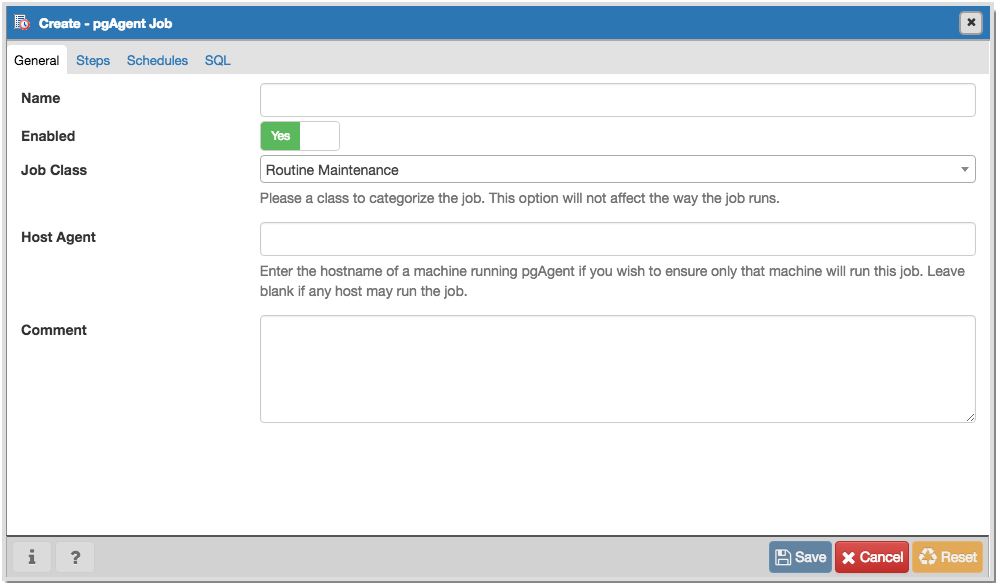
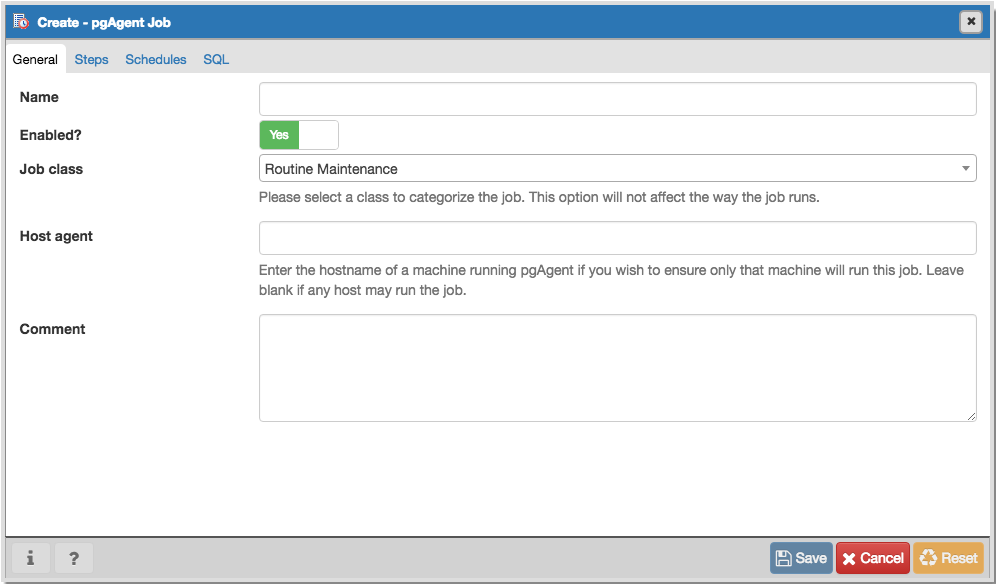
pgAgent docs. Fixes #1824

diff --git a/web/pgadmin/browser/server_groups/servers/pgagent/schedules/templates/pga_schedule/js/pga_schedule.js b/web/pgadmin/browser/server_groups/servers/pgagent/schedules/templates/pga_schedule/js/pga_schedule.js
@@ -183,6 +183,7 @@ function($, _, S, pgAdmin, moment, pgBrowser, Alertify, Backform) {
     pgBrowser.Nodes['pga_schedule'] = pgBrowser.Node.extend({
       parent_type: 'pga_job',
       type: 'pga_schedule',
+      dialogHelp: '{{ url_for('help.static', filename='pgagent_jobs.html') }}',
       hasSQL: false,
       hasDepends: false,
       hasStatistics: false,

diff --git a/web/pgadmin/browser/server_groups/servers/pgagent/steps/templates/pga_jobstep/js/pga_jobstep.js b/web/pgadmin/browser/server_groups/servers/pgagent/steps/templates/pga_jobstep/js/pga_jobstep.js
@@ -22,6 +22,7 @@ function($, _, S, pgAdmin, pgBrowser, Alertify, Backform) {
     pgBrowser.Nodes['pga_jobstep'] = pgBrowser.Node.extend({
       parent_type: 'pga_job',
       type: 'pga_jobstep',
+      dialogHelp: '{{ url_for('help.static', filename='pgagent_jobs.html') }}',
       hasSQL: true,
       hasDepends: false,
       hasStatistics: true,

diff --git a/web/pgadmin/browser/server_groups/servers/pgagent/templates/pga_job/js/pga_job.js b/web/pgadmin/browser/server_groups/servers/pgagent/templates/pga_job/js/pga_job.js
@@ -21,6 +21,7 @@ function($, _, S, pgAdmin, pgBrowser, Alertify) {
     pgBrowser.Nodes['pga_job'] = pgBrowser.Node.extend({
       parent_type: 'server',
       type: 'pga_job',
+      dialogHelp: '{{ url_for('help.static', filename='pgagent_jobs.html') }}',
       hasSQL: true,
       hasDepends: false,
       hasStatistics: true,

diff --git a/docs/en_US/pgagent_jobs.rst b/docs/en_US/pgagent_jobs.rst
@@ -1,13 +1,13 @@
 .. _pgagent_jobs:
 
 
-*********************
-`pgAgent Jobs`:index:
-*********************
+*******************************
+`Creating a pgAgent Job`:index:
+*******************************
 
 pgAgent is a scheduling agent that runs and manages jobs; each job consists of steps and schedules.  
 
-To create or manage a job, use the pgAdmin tree control to browse to the server on which the pgAgent database objects were created. The tree control will display a *pgAgent Jobs* node, under which currently defined jobs are displayed. To change the properties of an existing job, right click on the name of the job, and select *Properties*.  To add a new job, right click on the *pgAgent Jobs* node, and select *Create pgAgent Job...* from the context menu.  
+To create or manage a job, use the pgAdmin tree control to browse to the server on which the pgAgent database objects were created. The tree control will display a *pgAgent Jobs* node, under which currently defined jobs are displayed.  To add a new job, right click on the *pgAgent Jobs* node, and select *Create pgAgent Job...* from the context menu.  
 
 When the pgAgent dialog opens, use the tabs on the *pgAgent Job* dialog to define the steps and schedule that make up a pgAgent job.
 
@@ -59,7 +59,7 @@ Use fields on the step definition dialog to define the step:
 Use the context-sensitive field on the step definition dialog's *Code* tab to provide the SQL code or batch script that will be executed during the step:
 
  * If the step invokes SQL code, provide one or more SQL statements in the *SQL query* field.
- * If the step performs a batch script, provide the script in the *Script* field.  If you are running on a Windows server, standard batch file syntax must be used.  When running on a *nix server, any shell script may be used, provided that a suitable interpreter is specified on the first line (e.g. *#!/bin/sh*).
+ * If the step performs a batch script, provide the script in the *Script* field.  If you are running on a Windows server, standard batch file syntax must be used.  When running on a Linux server, any shell script may be used, provided that a suitable interpreter is specified on the first line (e.g. *#!/bin/sh*).
 
 When you've provided all of the information required by the step, click the compose icon to close the step definition dialog.  Click the add icon (+) to add each additional step, or select the *Schedules* tab to define the job schedule.
 
@@ -111,6 +111,11 @@ When you've finished defining the schedule, you can use the *SQL* tab to review 
 
 .. image:: images/pgagent_sql.png
  
-The *Properties* tab in the main pgAdmin window will display the details of the selected job, and the Statistics tab will show the details of each run of the job.
+Click the *Save* button to save the job definition, or *Cancel* to exit the job without saving.  Use the *Reset* button to remove your unsaved entries from the dialog. 
+ 
+After saving a job, the job will be listed under the *pgAgent Jobs* node of the pgAdmin tree control of the server on which it was defined.  The *Properties* tab in the main pgAdmin window will display a high-level overview of the selected job, and the *Statistics* tab will show the details of each run of the job.  
 
 .. image:: images/pgagent_properties.png
+
+To modify an existing job or to review detailed information about a job, right-click on a job name, and select *Properties* from the context menu.  
+

diff --git a/docs/en_US/using_pgagent.rst b/docs/en_US/using_pgagent.rst
@@ -9,7 +9,7 @@ pgAgent is a scheduling agent that runs and manages jobs; each job consists of o
 
 A step may be a series of SQL statements or an operating system batch/shell script. Each step in a given job is executed when the previous step completes, in alphanumeric order by name.  Switches on the *pgAgent Job* dialog (accessed through the *Properties* context menu) allow you to modify a job, enabling or disabling individual steps as needed.
 
-Each Job is executed according to one or more schedules. Each time the job or any of its schedules are altered, the next runtime of the job is re-calculated. Each instance of pgAgent periodically polls the database for jobs with the next runtime value in the past. By polling at least once every minute, all jobs will normally start within one minute of the specified start time. If no pgAgent instance is running at the next runtime of a job, it will run as soon as pgAgent is next started, following which it will return to the normal schedule.
+Each job is executed according to one or more schedules. Each time the job or any of its schedules are altered, the next runtime of the job is re-calculated. Each instance of pgAgent periodically polls the database for jobs with the next runtime value in the past. By polling at least once every minute, all jobs will normally start within one minute of the specified start time. If no pgAgent instance is running at the next runtime of a job, it will run as soon as pgAgent is next started, following which it will return to the normal schedule.
 
 When you highlight the name of a defined job in the pgAdmin tree control, the *Properties* tab of the main pgAdmin window will display details about the job, and the *Statistics* tab will display details about the job's execution.
 

diff --git a/docs/en_US/pgagent.rst b/docs/en_US/pgagent.rst
@@ -4,7 +4,7 @@
 pgAgent
 ======= 
 
-pgAgent is a job scheduling agent for Postgres databases, capable of running multi-step batch/shell and SQL tasks on complex schedules.
+pgAgent is a job scheduling agent for Postgres databases, capable of running multi-step batch or shell scripts and SQL tasks on complex schedules.
 
 pgAgent is distributed independently of pgAdmin.  You can download pgAgent from the `download area <http://www.pgadmin.org/download>`_ of the pgAdmin website.
 

diff --git a/docs/en_US/index.rst b/docs/en_US/index.rst
@@ -22,6 +22,7 @@ Contents:
    developer_tools
    deployment
    contributions
+   pgagent
    licence
 
   
